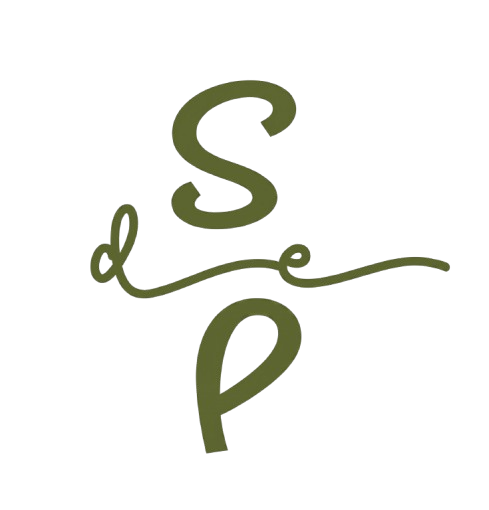
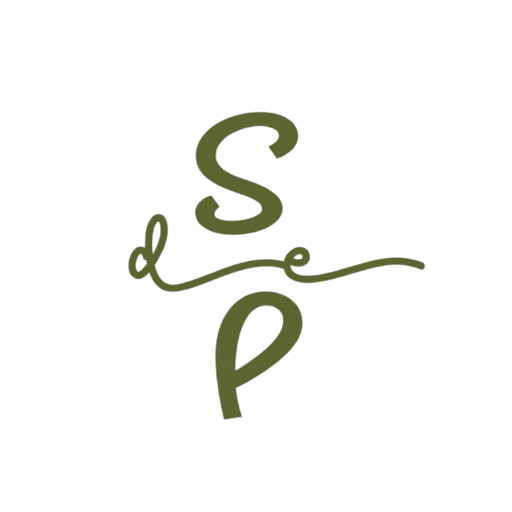
fix(footer): reorder credit below links on small screens, right column on desktop

Changed region(s): [[0.184, 0.1471, 0.9202, 0.9118]]

diff --git a/src/components/layout/Footer.tsx b/src/components/layout/Footer.tsx
@@ -187,15 +187,26 @@ export function Footer() {
 
       </div>
 
-      {/* ── Bottom bar ──────────────────────────────────────── */}
-      <div className="max-w-7xl mx-auto px-8 py-6 border-t border-outline-variant/10 flex flex-col md:flex-row justify-between items-center gap-4">
-        <p className="text-muted text-xs tracking-widest uppercase">
+      {/* ── Bottom bar: mobile/tablet — credit last, centered; desktop — 3-col, credit right + vertically centered ── */}
+      <div className="max-w-7xl mx-auto px-8 py-6 border-t border-outline-variant/10 flex flex-col items-center text-center gap-4 lg:grid lg:grid-cols-3 lg:items-center lg:gap-6 lg:text-left">
+        <p className="text-muted text-xs tracking-widest uppercase font-body lg:justify-self-start lg:text-left">
           © 2026 {SITE.name}. Handcrafted Excellence.
         </p>
-        <div className="flex gap-8 text-[10px] font-bold tracking-widest uppercase text-muted">
+        <div className="flex flex-wrap justify-center gap-6 sm:gap-8 text-[10px] font-bold tracking-widest uppercase text-muted lg:justify-self-center">
           <Link href="#" className="hover:text-primary transition-colors">Términos</Link>
           <Link href="#" className="hover:text-primary transition-colors">Privacidad</Link>
         </div>
+        <p className="text-muted text-xs font-body normal-case tracking-normal leading-relaxed lg:justify-self-end lg:self-center lg:text-right">
+          Diseñado y desarrollado por{" "}
+          <a
+            href={SITE.developerCredit.url}
+            target="_blank"
+            rel="noopener noreferrer"
+            className="font-bold text-on-surface-variant hover:text-primary transition-colors"
+          >
+            {SITE.developerCredit.displayName}
+          </a>
+        </p>
       </div>
 
     </footer>

diff --git a/src/constants/site.ts b/src/constants/site.ts
@@ -1,7 +1,7 @@
 /**
  * Single source of truth for all brand-level data.
  *
- * Consumed by: Navbar, Footer, CTA, HeroContent, FAQ, OurStory, page metadata.
+ * Consumed by: Navbar, Footer (incl. developerCredit), CTA, HeroContent, FAQ, OurStory, page metadata.
  * To extend: add new fields here and import where needed — never hardcode brand
  * values (name, phone, social URLs) inside components.
  */
@@ -16,4 +16,9 @@ export const SITE = {
   instagramUrl: "https://www.instagram.com/suspirosdepapel.mx/",
   facebookUrl: "https://www.facebook.com/share/18iCcH9ovT/",
   tiktokUrl: "https://www.tiktok.com/@yahairacortez852?_r=1&_t=ZS-95dD3gbEAXF",
+  /** Footer attribution — design & development credit (external). */
+  developerCredit: {
+    url: "https://www.antonydev.com/",
+    displayName: "AntonyDev.",
+  },
 } as const

diff --git a/src/app/layout.tsx b/src/app/layout.tsx
@@ -63,6 +63,12 @@ export const metadata: import("next").Metadata = {
     description: SITE.description,
     images: ["/images/hero.webp"],
   },
+  icons: {
+    other: [
+      { rel: "icon", url: "/icons/android-chrome-192x192.png", sizes: "192x192", type: "image/png" },
+      { rel: "icon", url: "/icons/android-chrome-512x512.png", sizes: "512x512", type: "image/png" },
+    ],
+  },
   robots: {
     index: true,
     follow: true,